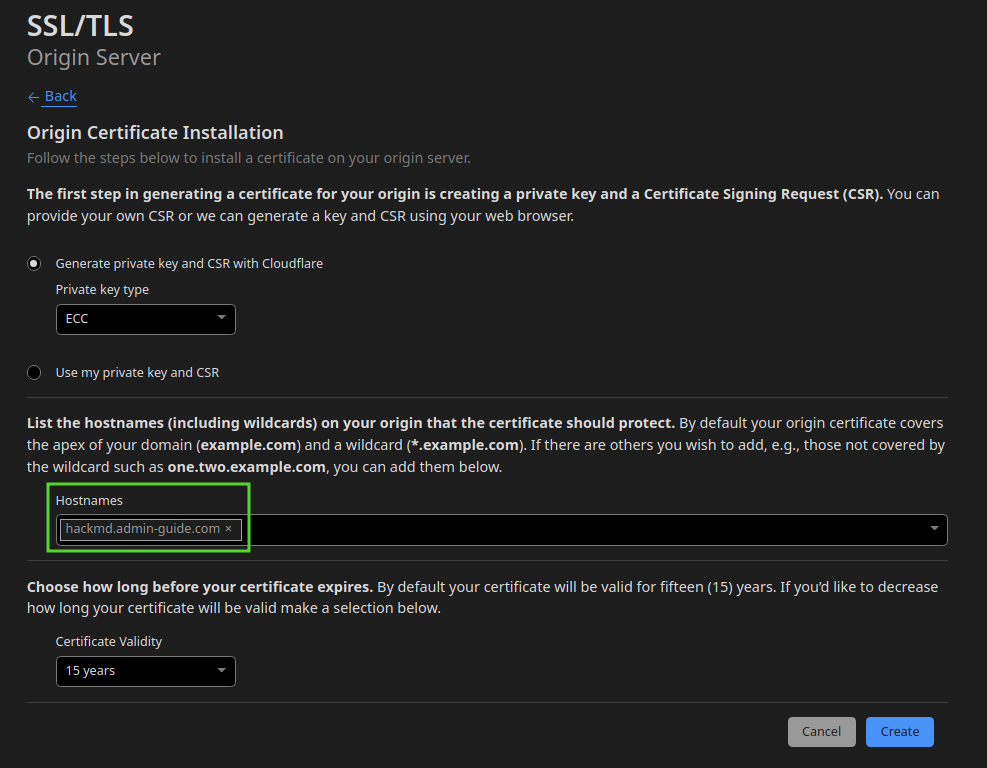
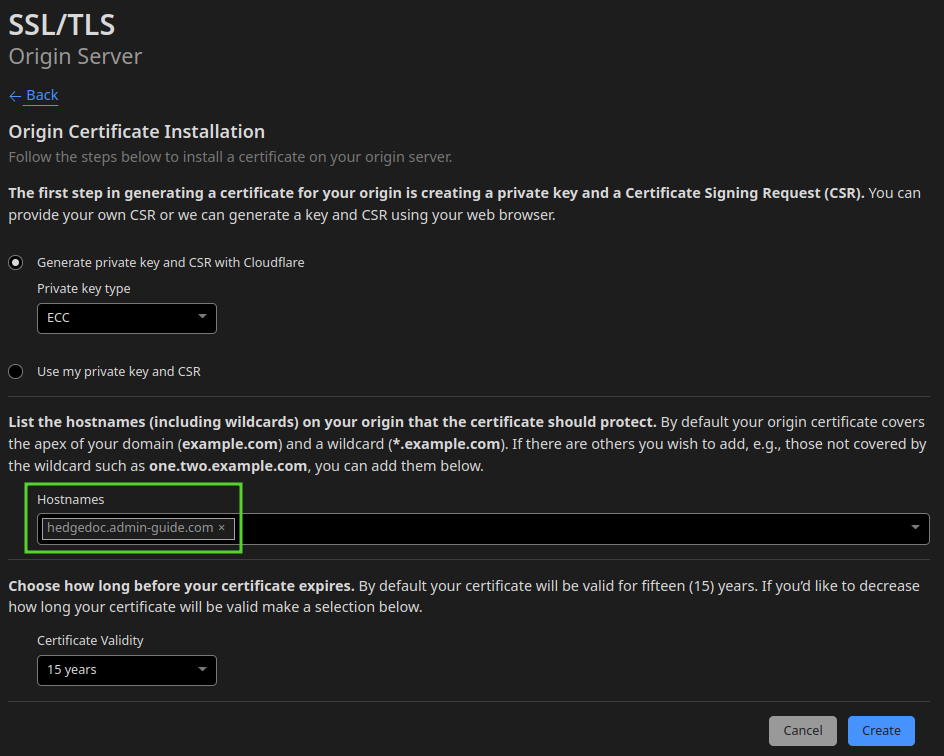
replaced images in nginx explaination

diff --git a/docs/21_nginx.md b/docs/21_nginx.md
@@ -78,13 +78,10 @@ Let's do this for the service [hedgedoc](services/hedgedoc.md):
 3. Now open the Cloudflare dashboard and navigate to the domain you would like to use to access your service.
    Go to DNS and add the `AAAA` dns record for the subdomain you'd like:
    ![Image of dns record creation](img/nginx/create_dns_record.png){: loading=lazy }
-   (*ignore that this domain has changed, should be `hedgedoc.admin-guide.com`*)
-
+   
 4. Next go to SSL/TLS -> Origin Server and create a new certificate for the subdomain:
    ![Image of certificate creation](img/nginx/create_certificate.png){: loading=lazy }
-   (*ignore that this domain has changed, should be `hedgedoc.admin-guide.com`*)
    ![Image 2 of certificate creation](img/nginx/create_certificate2.png){: loading=lazy }
-   (*ignore that this domain has changed, should be `hedgedoc.admin-guide.com`*)  
    Make sure to save the resulting origin certificate in `/etc/ssl/hedgedoc.admin-guide.com.crt` 
    and the private key in `/etc/ssl/hedgedoc.admin-guide.com.key`.
 
